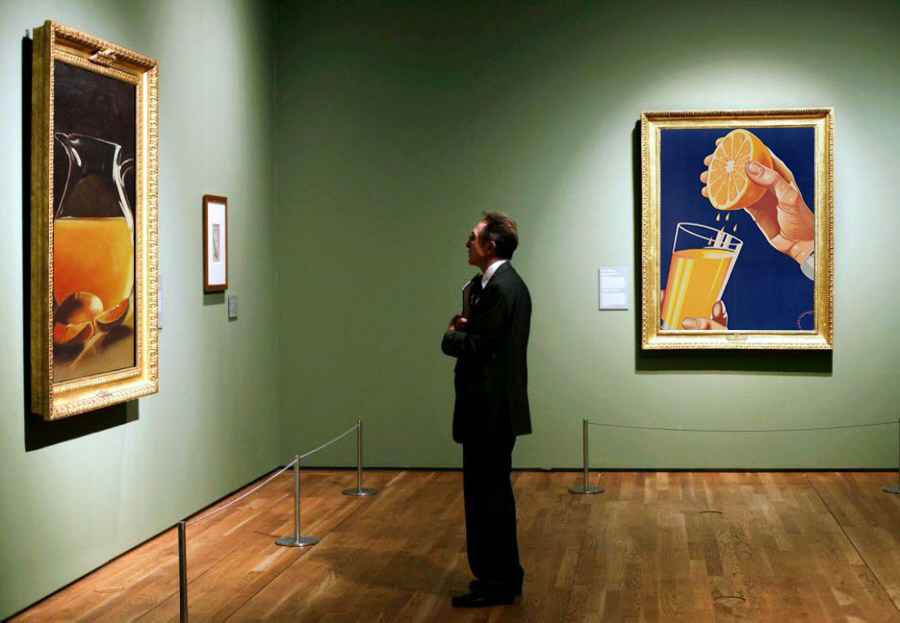
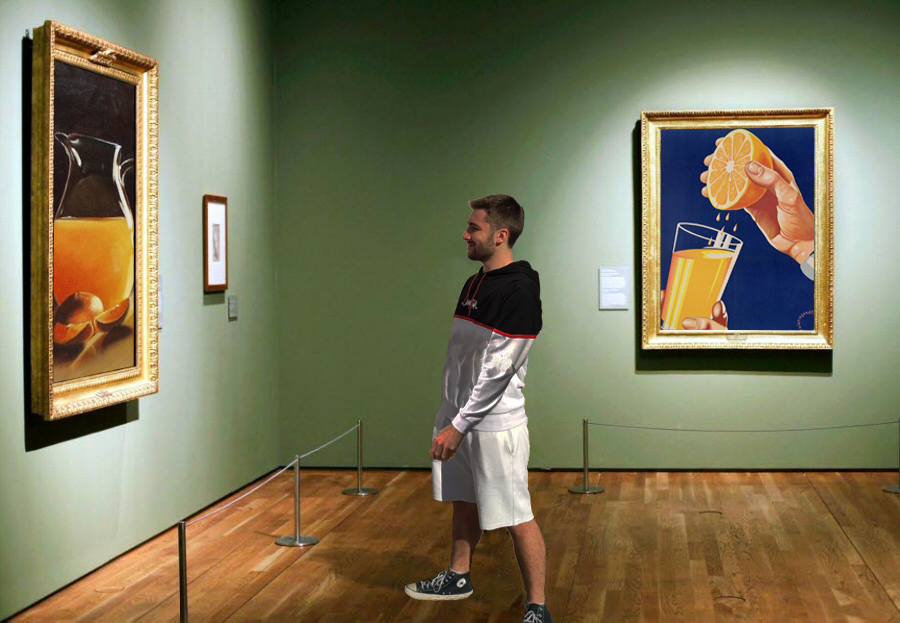
Last changes practice 1

Changed region(s): [[0.4356, 0.305, 0.6222, 1.0]]

diff --git a/main.html b/main.html
@@ -8,7 +8,7 @@
 
 <html>
     <head>
-        <title>Juicy trip responsive</title>
+        <title>Juicy trip</title>
         <link rel="stylesheet" href="./style/main_style.css">
         <meta name="viewport" content="width=device-width, initial-scale=1">
     </head>
@@ -137,12 +137,12 @@
                     </div>
 
                     <div class = "photo_container">
-                        <a href="./images/orange_juice.jpg" target="_blank">
-                        <img src="./images/orange_juice.jpg"
+                        <a href="./images/orange_juice_in_frout_shop.jpg" target="_blank">
+                        <img src="./images/orange_juice_in_frout_shop.jpg"
                         alt="orange juice" class="col_1_desktop photo">
-                        </a>
-                        <h3 class = "photo_title text">Orange juice</h3>
-                        <a class = "photo_description text">Closeup photo of an orange juice <br> being poured on a glass</a>
+                    </a>
+                        <h3 class = "photo_title text">Most famous orange vendors</h3>
+                        <a class = "photo_description text">Having an orange juice with two legends <br> of Mallorca's orange juice, thanks Paco and Conchi  </a>
                     </div>
                 </div>
 
@@ -181,8 +181,8 @@
                         <img src="./images/mercado_valencia.jpg"
                         alt="orange being squeezed" class="photo">
                         </a>
-                        <h3 class = "photo_title text">Orange juice museum</h3>
-                        <a class = "photo_description text">Man admiring juice art</a>
+                        <h3 class = "photo_title text">Valencia's market</h3>
+                        <a class = "photo_description text">Exploring the Valencia's biggest <br> fruit market</a>
                     </div>
 
                     <div class = "photo_container">
@@ -190,8 +190,8 @@
                         <img src="./images/mario_factory.jpg"
                         alt="orange juice" class="photo">
                         </a>
-                        <h3 class = "photo_title text">Orange juice</h3>
-                        <a class = "photo_description text">Closup phto of an orange juice <br> being poured on a glass</a>
+                        <h3 class = "photo_title text">Valencia's factory</h3>
+                        <a class = "photo_description text">Biggest orange juice <br> factory in Spain</a>
                     </div>
                 </div>
 
@@ -204,8 +204,8 @@
                         <img src="./images/ciudad_de_las_ciencias.jpg"
                         alt="orange juice" class="photo">
                         </a>
-                        <h3 class = "photo_title text">Orange juice</h3>
-                        <a class = "photo_description text">Us trying the best juice <br> made in Avila</a>
+                        <h3 class = "photo_title text">Valencia's oceanographic</h3>
+                        <a class = "photo_description text">Quick stop <br> at the Oceanographic</a>
                     </div>
                 
                     <div class = "photo_container">
@@ -213,8 +213,8 @@
                         <img src="./images/In_orange_farm.jpg"
                         alt="orange juice" class="photo">
                         </a>
-                        <h3 class = "photo_title text">Orange juice</h3>
-                        <a class = "photo_description text">Closup phto of an orange juice <br> being poured on a glass</a>
+                        <h3 class = "photo_title text">Avila's orange forest</h3>
+                        <a class = "photo_description text">Learning where it comes from <br> and enjoying fresh orange juice</a>
                     </div>
             
                     <div class = "photo_container">
@@ -222,8 +222,8 @@
                         <img src="./images/nacho_in_beach.jpg"
                         alt="orange juice" class="photo">
                         </a>
-                        <h3 class = "photo_title text">Orange juice</h3>
-                        <a class = "photo_description text">Closup phto of an orange juice <br> being poured on a glass</a>
+                        <h3 class = "photo_title text">Cadiz's sunset</h3>
+                        <a class = "photo_description text">In a beautiful beach <br> with a fresh orange juice</a>
                     </div>
 
                     <div class = "photo_container">
@@ -231,17 +231,17 @@
                         <img src="./images/mario_sad.jpg"
                         alt="orange juice" class="photo">
                         </a>
-                        <h3 class = "photo_title text">Orange juice</h3>
-                        <a class = "photo_description text">Closup phto of an orange juice <br> being poured on a glass</a>
+                        <h3 class = "photo_title text">Trying out Fanta</h3>
+                        <a class = "photo_description text">They did not have <br> orange juice</a>
                     </div>
 
                     <div class = "photo_container">
-                        <a href="./images/orange_juice.jpg" target="_blank">
-                        <img src="./images/orange_juice.jpg"
+                        <a href="./images/orange_juice_in_frout_shop.jpg" target="_blank">
+                        <img src="./images/orange_juice_in_frout_shop.jpg"
                         alt="orange juice" class="photo">
                         </a>
-                        <h3 class = "photo_title text">Orange juice</h3>
-                        <a class = "photo_description text">Closeup photo of an orange juice <br> being poured on a glass</a>
+                        <h3 class = "photo_title text">Most famous orange vendors</h3>
+                        <a class = "photo_description text">Having an orange juice with two legends <br> of Mallorca's orange juice, thanks Paco and Conchi  </a>
                     </div>
                 </div>
 

diff --git a/mallorca.html b/mallorca.html
@@ -8,7 +8,7 @@
 
 <html>
     <head>
-        <title>Juicy trip</title>
+        <title>Mallorca experience</title>
         <link rel="stylesheet" href="./style/secondary_style.css">
         <meta name="viewport" content="width=device-width, initial-scale=1">
 

diff --git a/valencia.html b/valencia.html
@@ -8,7 +8,7 @@
 
 <html>
     <head>
-        <title>Juicy trip</title>
+        <title>Valencia experience</title>
         <link rel="stylesheet" href="./style/secondary_style.css">
         <meta name="viewport" content="width=device-width, initial-scale=1">
 

diff --git a/cadiz.html b/cadiz.html
@@ -8,7 +8,7 @@
 
 <html>
     <head>
-        <title>Juicy trip</title>
+        <title>Cádiz experience</title>
         <link rel="stylesheet" href="./style/secondary_style.css">
         <meta name="viewport" content="width=device-width, initial-scale=1">
 

diff --git a/avila.html b/avila.html
@@ -8,7 +8,7 @@
 
 <html>
     <head>
-        <title>Juicy trip</title>
+        <title>Avila experience</title>
         <link rel="stylesheet" href="./style/secondary_style.css">
         <meta name="viewport" content="width=device-width, initial-scale=1">
 
